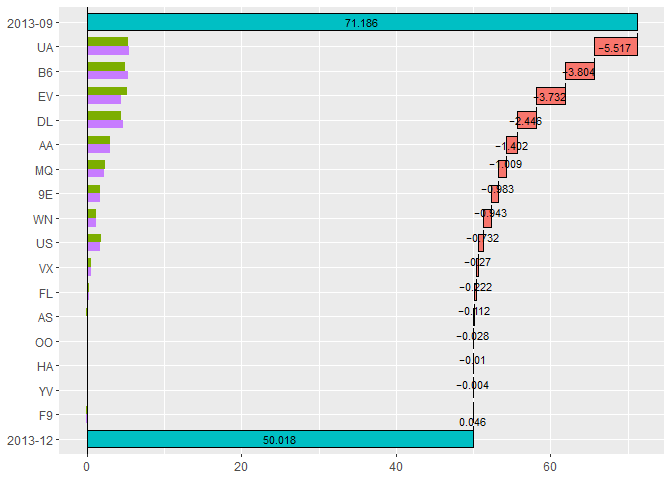
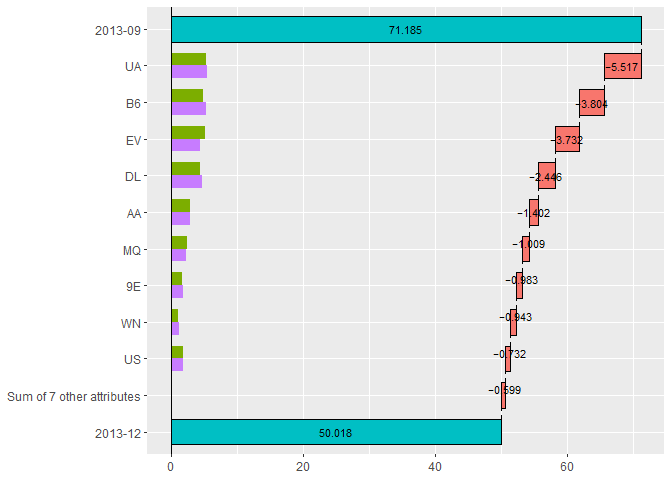
max display

diff --git a/README.md b/README.md
@@ -27,40 +27,40 @@ library(nycflights13)
 
 data <- flights |> 
   filter(!is.na(dep_delay)) |>
-  mutate(y = dep_delay <= 0)  # on time
+  mutate(on_time = dep_delay <= 0)  # on time
 
-data |> select(year, month, day, origin, dest, carrier, y) |> head()
+data |> select(year, month, day, origin, dest, carrier, on_time) |> head()
 #> # A tibble: 6 × 7
-#>    year month   day origin dest  carrier y    
-#>   <int> <int> <int> <chr>  <chr> <chr>   <lgl>
-#> 1  2013     1     1 EWR    IAH   UA      FALSE
-#> 2  2013     1     1 LGA    IAH   UA      FALSE
-#> 3  2013     1     1 JFK    MIA   AA      FALSE
-#> 4  2013     1     1 JFK    BQN   B6      TRUE 
-#> 5  2013     1     1 LGA    ATL   DL      TRUE 
+#>    year month   day origin dest  carrier on_time
+#>   <int> <int> <int> <chr>  <chr> <chr>   <lgl>  
+#> 1  2013     1     1 EWR    IAH   UA      FALSE  
+#> 2  2013     1     1 LGA    IAH   UA      FALSE  
+#> 3  2013     1     1 JFK    MIA   AA      FALSE  
+#> 4  2013     1     1 JFK    BQN   B6      TRUE   
+#> 5  2013     1     1 LGA    ATL   DL      TRUE   
 #> 6  2013     1     1 EWR    ORD   UA      TRUE
 
 data1 <- data |> filter(month == 9L)
 data2 <- data |> filter(month == 12L)
 
-data1 |> summarise(y = mean(y)) |> pull(y)
+data1 |> summarise(on_time_rate = mean(on_time)) |> pull(on_time_rate)
 #> [1] 0.7118575
-data2 |> summarise(y = mean(y)) |> pull(y)
+data2 |> summarise(on_time_rate = mean(on_time)) |> pull(on_time_rate)
 #> [1] 0.5001844
 ```
 
 ``` r
 library(Theseus)
 
-ship <- create_ship(data1, data2, labels = c("2013-09", "2013-12"))
+ship <- create_ship(data1, data2, on_time, labels = c("2013-09", "2013-12"))
 
 ship$table(origin)
-#> # A tibble: 3 × 10
-#>   items    mean     min     max size1 size2 success1 success2 rate1 rate2
-#>   <chr>   <dbl>   <dbl>   <dbl> <int> <int>    <int>    <int> <dbl> <dbl>
-#> 1 EWR   -0.0953 -0.0953 -0.0953  9407  9445     6457     3895 0.686 0.412
-#> 2 JFK   -0.0589 -0.0591 -0.0587  8816  8963     6167     4659 0.700 0.520
-#> 3 LGA   -0.0574 -0.0578 -0.0571  8899  8702     6683     5006 0.751 0.575
+#> # A tibble: 3 × 8
+#>   origin contrib    n1    n2    x1    x2 rate1 rate2
+#>   <chr>    <dbl> <int> <int> <int> <int> <dbl> <dbl>
+#> 1 EWR    -0.0953  9407  9445  6457  3895 0.686 0.412
+#> 2 JFK    -0.0589  8816  8963  6167  4659 0.700 0.520
+#> 3 LGA    -0.0574  8899  8702  6683  5006 0.751 0.575
 ```
 
 ``` r
